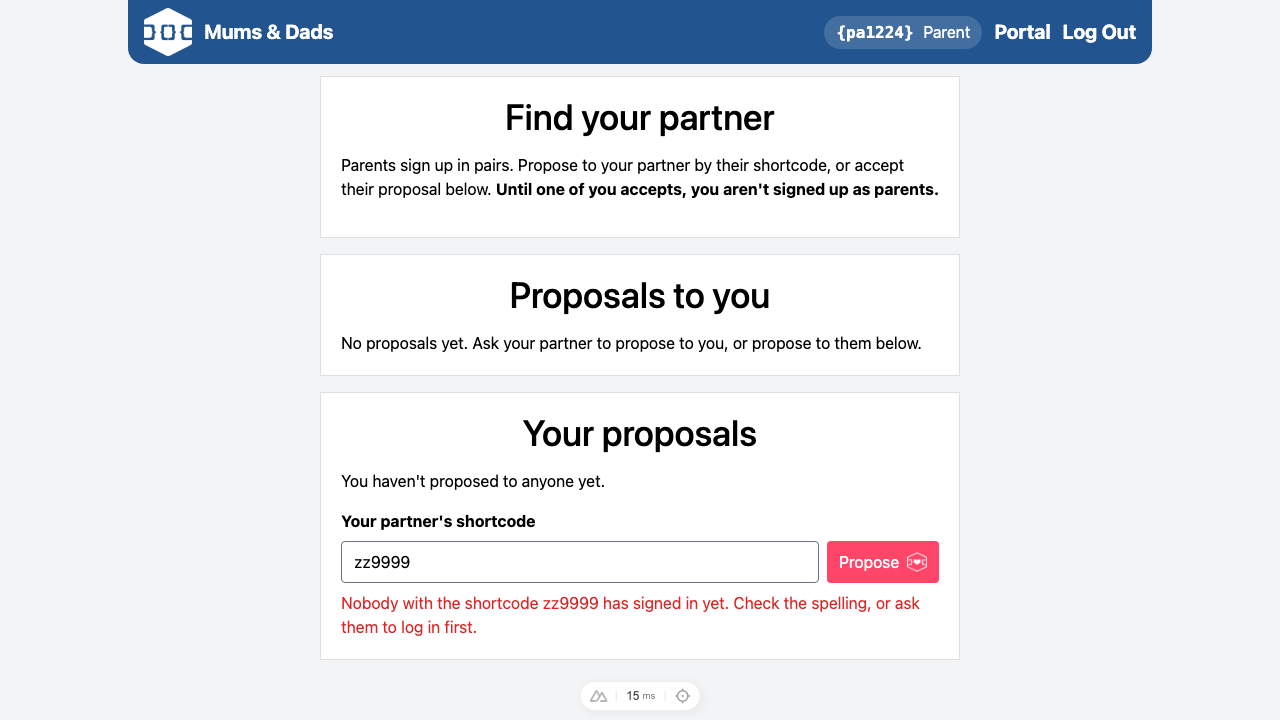
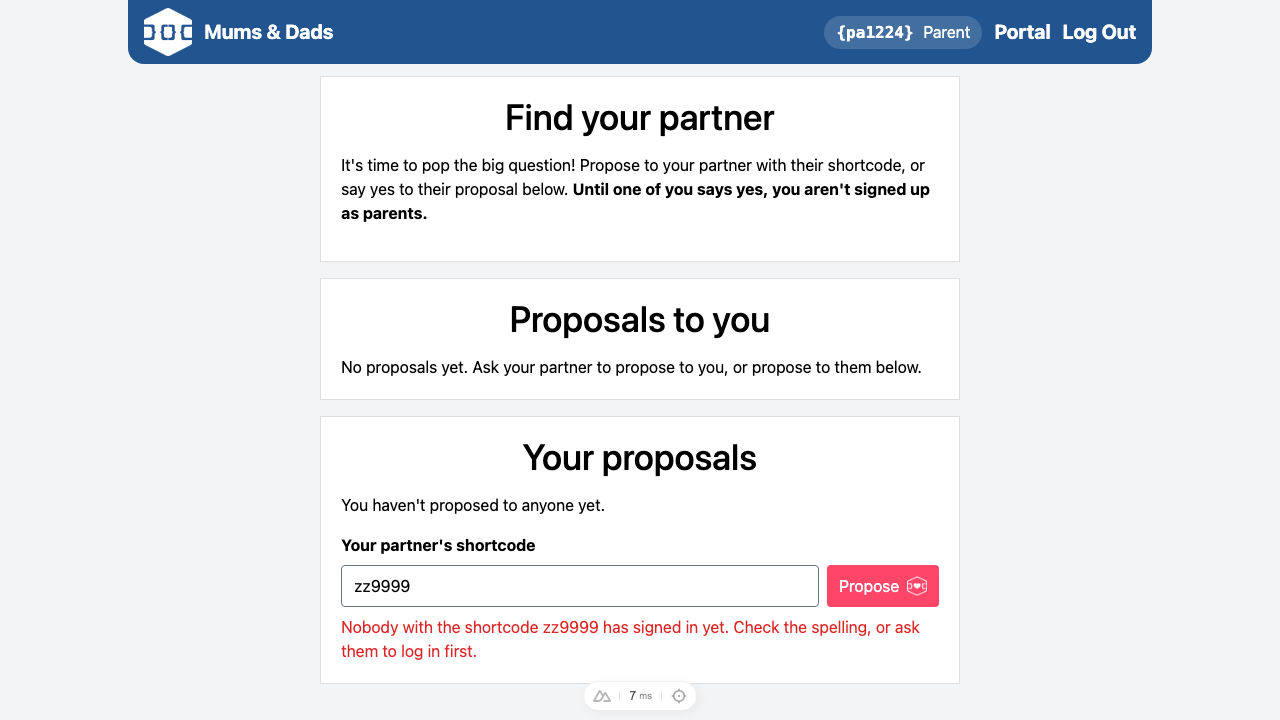
feat: reword the parents' pub question, proposals copy, and drop the freshers' fair line (#29)
* feat: reword the parents' pub question, and drop the freshers' fair line

Parents are asked whether they'd take their kids to the pub, with options worded for
them. The societies question no longer mentions the Freshers' Fair, in either survey.
Stored values are unchanged.

* feat: nudge unpaired parents to pop the big question

* feat: invite parents to pop the big question on the proposals page

---------

diff --git a/app/pages/proposals.vue b/app/pages/proposals.vue
@@ -134,10 +134,10 @@ const nameOf = (shortcode: string, name: string | null) =>
       <Card>
         <CardTitle>Find your partner</CardTitle>
         <CardText class="mt-4">
-          Parents sign up in pairs. Propose to your partner by their shortcode,
-          or accept their proposal below.
+          It's time to pop the big question! Propose to your partner with their
+          shortcode, or say yes to their proposal below.
           <strong>
-            Until one of you accepts, you aren't signed up as parents.
+            Until one of you says yes, you aren't signed up as parents.
           </strong>
         </CardText>
         <CardText v-if="!currentUser!.completedSurvey">

diff --git a/app/pages/portal.vue b/app/pages/portal.vue
@@ -66,7 +66,7 @@ const hasChildren = computed(() => (family.value?.kids.length ?? 0) > 0);
             {{ partner.answers?.preferredName || partner.name }}.
           </p>
           <p v-else-if="currentState == 'open'">
-            Parents sign up in pairs, and you haven't paired up yet.
+            You still need to pop the big question: everyone's waiting to hear!
             <NuxtLink to="/proposals">Propose to your partner</NuxtLink>
           </p>
           <p v-else>You didn't pair up before sign-ups closed.</p>

diff --git a/e2e/helpers/survey.ts b/e2e/helpers/survey.ts
@@ -109,7 +109,7 @@ export async function fillSurvey(
   await page.getByRole('textbox', { name: 'I am...' }).fill('non-binary');
   await next(page);
 
-  await choose(page, 'Race them downing pints');
+  await choose(page, /^(Yes, I'd r|R)ace them downing pints$/);
   await next(page);
 
   await choose(page, 'Up for it every now and then');
